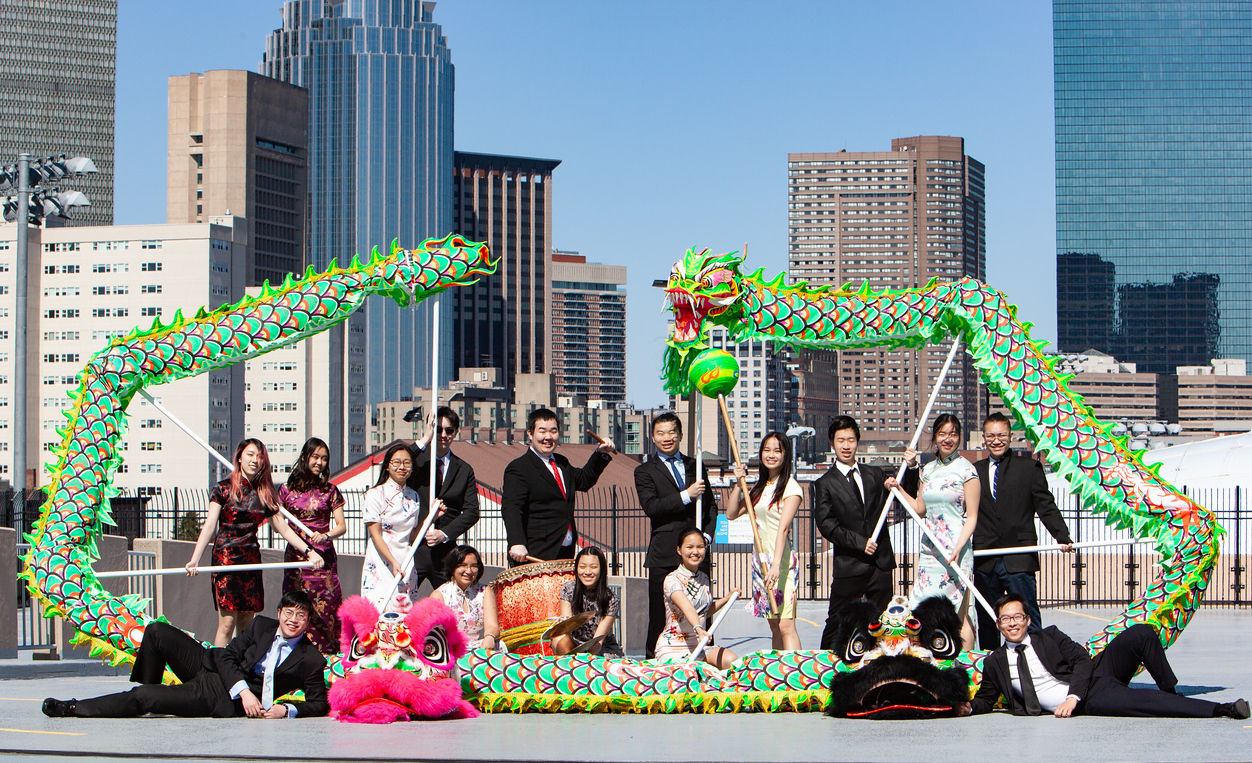
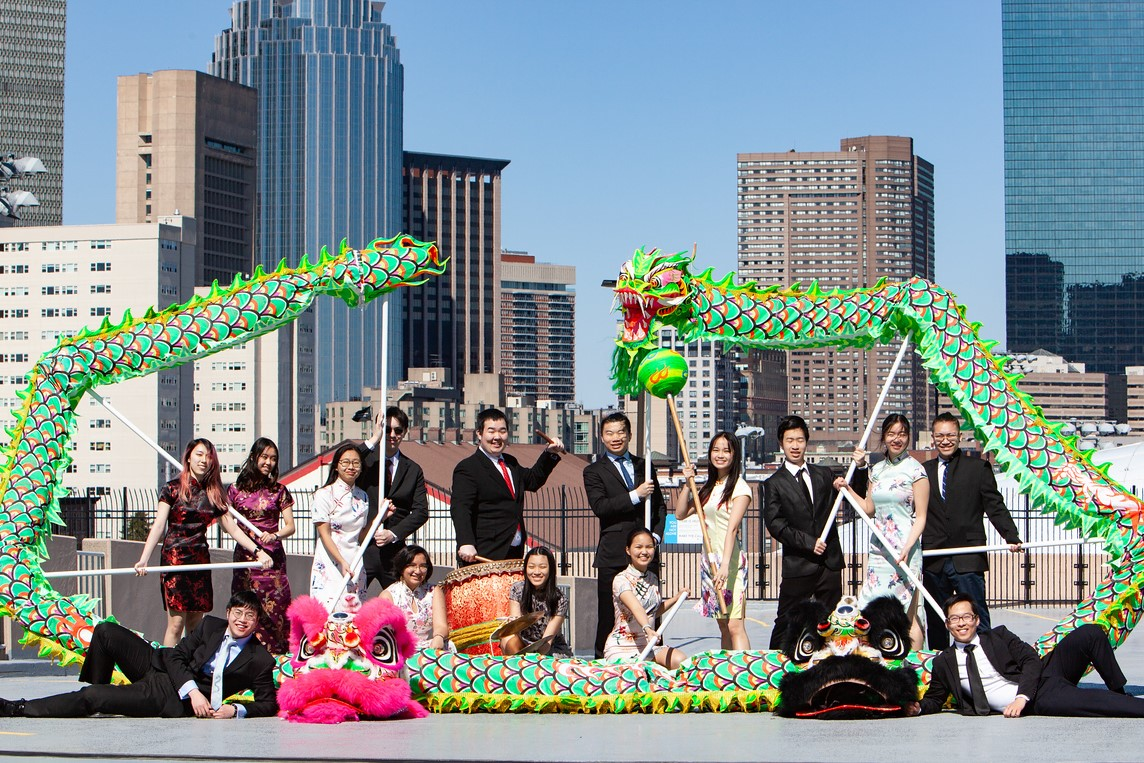
Added 2nd AAF performance and standardized image proportions

diff --git a/Gallery.html b/Gallery.html
@@ -115,12 +115,32 @@
 						<!-- GALLERY -------------------------------------------------------- -->
 						<div class="more-space-on-sides">
 						<!-- NEW ROW -->
+
+							<h1>2023-24 Performances</h1>
+
+							<div class="responsive">
+							<div class="gallery">
+								<a target="_blank" rel="noreferrer noopener" href="https://www.youtube.com/watch?v=_-uJ1tId09g">
+								<img src="/GalleryPics/2023-4/2nd-Asian-American-Festival.jpeg" alt="2nd Dragon Dance Performance at 2023 American Asian Festival at Boston Common" width="600" height="400" class="pic">
+								</a>
+								<div class="desc">2nd Dragon Dance Performance at 2023 American Asian Festival at Boston Common</div>
+							</div>
+							</div>
+
+							<div class="clearfix"></div>
+							<br>
+							<br>
+							<br>
+
+
+
+
 							<h1>2022-23 Performances</h1>
 
 							<div class="responsive">
 							  <div class="gallery">
 							    <a target="_blank" rel="noreferrer noopener" href="https://youtu.be/Ls8XlOKpW4M">
-							      <img src="/GalleryPics/2022-3/Wellesley2.png" alt="Dragon Dance Performances at Wellesley Wushu Spring Showcase" width="600" height="400" class="pic">
+							      <img src="/GalleryPics/2022-3/Wellesley2.png" alt="Dragon Dance Performance at Wellesley Wushu Spring Showcase" width="600" height="400" class="pic">
 							    </a>
 							    <div class="desc">Dragon Dance Performances at Wellesley Wushu Spring Showcase</div>
 							  </div>
